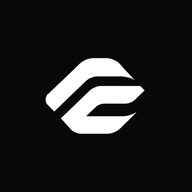
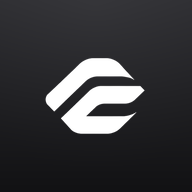
Apresentacao com telas reais e fundo preto; icones do app com degrade grafite e nome Ewvon
Claude-Session: https://claude.ai/code/session_01LEVXUKAxSR1y1Zz3Q6EDm6

diff --git a/public/ewvon-intro.js b/public/ewvon-intro.js
@@ -1,184 +1,94 @@
-/* Apresentação animada do ewvon: roda sozinha nos primeiros instantes da página inicial, mostra as funções
-   com jogo de luz e termina na frase de efeito. Pode ser pulada e só toca uma vez por sessão do navegador. */
+/* Apresentação de abertura do Ewvon: telas reais do sistema (modo de teste), logo real e nomes reais das áreas,
+   sobre fundo preto liso. Toca uma vez por sessão do navegador, pode ser pulada e termina na frase de efeito. */
 (function () {
   'use strict';
-  var KEY = 'ewvon-intro-v1';
+  var KEY = 'ewvon-intro-v2';
   var reduce = window.matchMedia && window.matchMedia('(prefers-reduced-motion: reduce)').matches;
-  var running = false;
+  var running = false, host = null;
 
   var CSS = '' +
-    '#evi{position:fixed;inset:0;z-index:9999;background:#05060b;color:#f5f6fa;font-family:"Plus Jakarta Sans",system-ui,-apple-system,"Segoe UI",sans-serif;overflow:hidden;opacity:1;transition:opacity .9s ease}' +
-    '#evi.out{opacity:0;pointer-events:none}' +
-    '#evi *{box-sizing:border-box}' +
-    '#evi .lt{position:absolute;border-radius:50%;filter:blur(70px);opacity:.55;will-change:transform}' +
-    '#evi .l1{width:46vmax;height:46vmax;left:-12vmax;top:-18vmax;background:radial-gradient(circle,#2f5bd8,transparent 65%);animation:evd1 9s ease-in-out infinite alternate}' +
-    '#evi .l2{width:42vmax;height:42vmax;right:-14vmax;bottom:-16vmax;background:radial-gradient(circle,#7a4bdb,transparent 65%);animation:evd2 11s ease-in-out infinite alternate}' +
-    '#evi .l3{width:26vmax;height:26vmax;left:38%;top:30%;background:radial-gradient(circle,#2bb3a3,transparent 65%);opacity:.28;animation:evd3 7s ease-in-out infinite alternate}' +
-    '@keyframes evd1{to{transform:translate(14vmax,10vmax) scale(1.15)}}@keyframes evd2{to{transform:translate(-12vmax,-8vmax) scale(1.1)}}@keyframes evd3{to{transform:translate(-14vmax,8vmax) scale(1.3)}}' +
-    '#evi .grid{position:absolute;inset:0;background-image:linear-gradient(rgba(255,255,255,.045) 1px,transparent 1px),linear-gradient(90deg,rgba(255,255,255,.045) 1px,transparent 1px);background-size:56px 56px;mask-image:radial-gradient(ellipse at center,#000 20%,transparent 75%);-webkit-mask-image:radial-gradient(ellipse at center,#000 20%,transparent 75%)}' +
-    '#evi .beam{position:absolute;top:-20%;bottom:-20%;width:22vmax;left:-30vmax;background:linear-gradient(100deg,transparent,rgba(255,255,255,.12),transparent);transform:skewX(-18deg);animation:evbm 5.2s linear infinite}' +
-    '@keyframes evbm{to{left:130vw}}' +
-    '#evi .sc{position:absolute;inset:0;display:flex;flex-direction:column;align-items:center;justify-content:center;gap:34px;padding:28px 24px 70px;opacity:0;visibility:hidden;transition:opacity .55s ease,transform .55s ease;transform:scale(.97)}' +
-    '#evi .sc.on{opacity:1;visibility:visible;transform:none}' +
-    '#evi .sc.gone{opacity:0;transform:scale(1.03)}' +
-    '#evi .tx{text-align:center;max-width:620px}' +
-    '#evi .kk{display:inline-block;font-size:12px;font-weight:800;letter-spacing:.16em;text-transform:uppercase;color:#9db4ff;border:1px solid rgba(157,180,255,.35);border-radius:999px;padding:6px 14px;margin-bottom:16px;background:rgba(47,91,216,.12)}' +
-    '#evi h2{margin:0 0 12px;font-size:clamp(30px,5.4vw,56px);line-height:1.08;font-weight:800;letter-spacing:-.025em;background:linear-gradient(100deg,#fff 30%,#a9bcff 48%,#fff 66%);background-size:250% 100%;-webkit-background-clip:text;background-clip:text;color:transparent;animation:evsh 2.6s ease-out both}' +
-    '@keyframes evsh{from{background-position:120% 0}to{background-position:-30% 0}}' +
-    '#evi .tx p{margin:0;font-size:clamp(15px,2vw,19px);color:#b8bdd0;line-height:1.55}' +
-    '#evi .sc.on .tx>*{animation:evup .7s cubic-bezier(.2,.7,.2,1) both}#evi .sc.on .tx>*:nth-child(2){animation-delay:.1s}#evi .sc.on .tx>*:nth-child(3){animation-delay:.2s}' +
-    '@keyframes evup{from{opacity:0;transform:translateY(18px)}to{opacity:1;transform:none}}' +
-    '#evi .vs{position:relative;width:min(560px,88vw);height:min(300px,34vh);display:flex;align-items:center;justify-content:center}' +
-    '#evi .sc.on .vs{animation:evpop .8s cubic-bezier(.2,.8,.2,1) .15s both}' +
-    '@keyframes evpop{from{opacity:0;transform:translateY(30px) scale(.94)}to{opacity:1;transform:none}}' +
-    '#evi .win{width:100%;height:100%;border-radius:20px;background:linear-gradient(160deg,rgba(255,255,255,.1),rgba(255,255,255,.04));border:1px solid rgba(255,255,255,.14);box-shadow:0 30px 80px rgba(0,0,0,.5),0 0 60px rgba(70,110,255,.18);backdrop-filter:blur(8px);padding:18px;position:relative;overflow:hidden}' +
-    '#evi .win:after{content:"";position:absolute;inset:0;background:linear-gradient(115deg,transparent 35%,rgba(255,255,255,.1) 50%,transparent 65%);transform:translateX(-120%);animation:evgl 2.4s ease-in-out .8s infinite}' +
-    '@keyframes evgl{to{transform:translateX(120%)}}' +
-    '#evi .dots{display:flex;gap:6px;margin-bottom:14px}#evi .dots i{width:9px;height:9px;border-radius:50%;background:rgba(255,255,255,.25)}' +
-    /* chat */
-    '#evi .chips{display:flex;gap:8px;flex-wrap:wrap;margin-bottom:12px}#evi .chip{font-size:12px;font-weight:700;padding:5px 11px;border-radius:999px;background:rgba(255,255,255,.1);color:#dfe4f5}#evi .chip.a{background:#2358c3;color:#fff}' +
-    '#evi .bub{max-width:72%;padding:10px 14px;border-radius:16px;font-size:14px;margin-bottom:9px;opacity:0;background:rgba(255,255,255,.12);color:#eef1fb}#evi .bub.r{margin-left:auto;background:#2358c3;color:#fff}' +
-    '#evi .sc.on .bub{animation:evup .6s ease var(--d,.6s) both}' +
-    '#evi .typ{display:inline-flex;gap:4px;margin-top:2px;opacity:0}#evi .sc.on .typ{animation:evup .4s ease 1.9s both}#evi .typ i{width:7px;height:7px;border-radius:50%;background:#9db4ff;animation:evbl 1s infinite}#evi .typ i:nth-child(2){animation-delay:.15s}#evi .typ i:nth-child(3){animation-delay:.3s}' +
-    '@keyframes evbl{50%{transform:translateY(-5px);opacity:.5}}' +
-    /* chamada */
-    '#evi .call{display:flex;align-items:center;justify-content:center;gap:34px;height:100%;flex-direction:column}#evi .av{display:flex;gap:26px}' +
-    '#evi .ap{position:relative;width:74px;height:74px;border-radius:50%;display:grid;place-items:center;font-weight:800;font-size:24px;color:#fff}' +
-    '#evi .ap:before,#evi .ap:after{content:"";position:absolute;inset:0;border-radius:50%;border:2px solid currentColor;opacity:0;animation:evrg 2.2s ease-out infinite}#evi .ap:after{animation-delay:1.1s}' +
-    '@keyframes evrg{from{transform:scale(1);opacity:.7}to{transform:scale(2);opacity:0}}' +
-    '#evi .pill{padding:8px 16px;border-radius:999px;background:rgba(18,160,114,.18);color:#62e0b0;font-weight:700;font-size:14px;display:flex;gap:8px;align-items:center}#evi .pill b{width:8px;height:8px;border-radius:50%;background:#33d69f;animation:evbl 1.2s infinite}' +
-    /* kanban */
-    '#evi .kb{display:grid;grid-template-columns:repeat(3,1fr);gap:12px;height:calc(100% - 22px)}#evi .col{background:rgba(255,255,255,.06);border-radius:12px;padding:10px;position:relative}' +
-    '#evi .col h6{margin:0 0 9px;font-size:11px;letter-spacing:.1em;text-transform:uppercase;color:#a6adc4}' +
-    '#evi .cd{height:34px;border-radius:9px;background:rgba(255,255,255,.14);margin-bottom:8px;position:relative}#evi .cd:before{content:"";position:absolute;left:10px;top:11px;width:55%;height:6px;border-radius:3px;background:rgba(255,255,255,.4)}' +
-    '#evi .cd.m{background:#2358c3;box-shadow:0 0 24px rgba(60,110,255,.6);z-index:2;animation:evmv 2.4s ease-in-out .5s infinite alternate}' +
-    '@keyframes evmv{0%{transform:translate(0,0)}45%{transform:translate(calc(100% + 12px),0)}100%{transform:translate(calc(200% + 24px),0)}}' +
-    /* calendário */
-    '#evi .cal{display:grid;grid-template-columns:repeat(5,1fr);gap:8px;height:calc(100% - 22px)}#evi .dy{background:rgba(255,255,255,.05);border-radius:10px;padding:8px;position:relative}#evi .dy h6{margin:0 0 8px;font-size:11px;color:#a6adc4;font-weight:700}' +
-    '#evi .ev{border-radius:8px;padding:6px 8px;font-size:11px;font-weight:700;margin-bottom:6px;color:#fff;opacity:0}#evi .sc.on .ev{animation:evup .5s ease both}' +
-    '#evi .ev.b{background:#2358c3}#evi .ev.v{background:#7a4bdb}#evi .ev.g{background:#12a072}#evi .ev.t{height:46px}' +
-    /* avisos */
-    '#evi .nt{display:flex;flex-direction:column;gap:10px}#evi .nc{display:flex;gap:12px;align-items:center;padding:12px 14px;border-radius:14px;background:rgba(255,255,255,.09);opacity:0;font-size:14px}#evi .sc.on .nc{animation:evup .6s ease both}#evi .nc:nth-child(2){animation-delay:.5s!important}#evi .nc:nth-child(3){animation-delay:.9s!important}' +
-    '#evi .ic{width:38px;height:38px;border-radius:11px;display:grid;place-items:center;flex:none;font-size:18px;font-weight:800}' +
-    '#evi .cf{position:absolute;width:7px;height:12px;border-radius:2px;opacity:0;animation:evcf 2.4s ease-out infinite}@keyframes evcf{0%{opacity:1;transform:translateY(0) rotate(0)}100%{opacity:0;transform:translateY(170px) rotate(360deg)}}' +
-    /* avaliações */
-    '#evi .doc{display:flex;gap:18px;height:100%}#evi .pg{flex:1;background:#fff;border-radius:10px;padding:14px;color:#1a1d29;position:relative}#evi .pg h6{margin:0 0 10px;font-size:12px;font-weight:800;letter-spacing:.04em}' +
-    '#evi .br{display:flex;align-items:center;gap:8px;margin-bottom:8px;font-size:10px;font-weight:700;color:#5c6378}#evi .br i{flex:1;height:8px;border-radius:4px;background:#e7e9f0;overflow:hidden;position:relative}#evi .br i:after{content:"";position:absolute;inset:0;width:0;background:#2358c3;border-radius:4px}' +
-    '#evi .sc.on .br i:after{animation:evbr 1.4s ease-out var(--d,0s) forwards}' +
-    '@keyframes evbr{to{width:var(--w,70%)}}' +
-    '#evi .qr{width:54px;height:54px;background:conic-gradient(#1a1d29 25%,#fff 0 50%,#1a1d29 0 75%,#fff 0) 0 0/14px 14px;border:3px solid #1a1d29;border-radius:4px;position:absolute;right:14px;bottom:14px}' +
-    '#evi .stp{position:absolute;right:16px;top:12px;border:2px solid #2358c3;color:#2358c3;font-size:11px;font-weight:800;padding:3px 8px;border-radius:6px;transform:rotate(8deg);opacity:0}#evi .sc.on .stp{animation:evst .5s ease 1.6s both}@keyframes evst{from{opacity:0;transform:rotate(8deg) scale(2)}to{opacity:1;transform:rotate(8deg) scale(1)}}' +
-    '#evi .sd{width:150px;display:flex;flex-direction:column;gap:10px;justify-content:center}#evi .sd div{padding:10px 12px;border-radius:12px;background:rgba(255,255,255,.1);font-size:12px;font-weight:700}' +
-    /* dash 3d */
-    '#evi .iso{position:relative;width:260px;height:260px;transform:rotateX(58deg) rotateZ(-40deg);transform-style:preserve-3d;animation:evfl 4s ease-in-out infinite alternate}' +
-    '@keyframes evfl{to{transform:rotateX(58deg) rotateZ(-30deg) translateZ(10px)}}' +
-    '#evi .fl{position:absolute;inset:0;border-radius:10px;border:2px solid rgba(255,255,255,.5);background:rgba(120,150,255,.16);box-shadow:0 0 40px rgba(80,120,255,.35)}' +
-    '#evi .fl.f1{transform:translateZ(0)}#evi .fl.f2{transform:translateZ(46px)}#evi .fl.f3{transform:translateZ(92px)}#evi .fl.f4{transform:translateZ(138px);background:rgba(160,120,255,.2)}' +
-    '#evi .sc.on .fl{animation:evfd 1.2s cubic-bezier(.2,.8,.2,1) both}#evi .sc.on .f2{animation-delay:.2s}#evi .sc.on .f3{animation-delay:.4s}#evi .sc.on .f4{animation-delay:.6s}' +
-    '@keyframes evfd{from{opacity:0;margin-top:-80px}to{opacity:1;margin-top:0}}' +
-    '#evi .fl b{position:absolute;width:14px;height:14px;border-radius:4px;background:#ffd166;box-shadow:0 0 12px #ffd166}' +
-    /* ia */
-    '#evi .orb{width:128px;height:128px;border-radius:50%;background:radial-gradient(circle at 35% 30%,#fff,#8fb0ff 30%,#6a4cff 60%,#1b1e5e);box-shadow:0 0 80px rgba(110,130,255,.8),0 0 160px rgba(120,80,255,.4);animation:evor 3s ease-in-out infinite alternate}' +
-    '@keyframes evor{to{transform:scale(1.12);box-shadow:0 0 110px rgba(110,130,255,.95),0 0 200px rgba(120,80,255,.55)}}' +
-    '#evi .orbit{position:absolute;inset:0;animation:evrt 12s linear infinite}@keyframes evrt{to{transform:rotate(360deg)}}' +
-    '#evi .orbit span{position:absolute;padding:7px 13px;border-radius:999px;background:rgba(255,255,255,.12);border:1px solid rgba(255,255,255,.2);font-size:12px;font-weight:700;white-space:nowrap;animation:evrt 12s linear infinite reverse}' +
-    /* app e seguranca */
-    '#evi .ph{width:118px;height:236px;border-radius:24px;border:3px solid rgba(255,255,255,.5);background:linear-gradient(170deg,rgba(255,255,255,.14),rgba(255,255,255,.04));position:relative;padding:12px 9px;box-shadow:0 0 50px rgba(80,120,255,.3)}' +
-    '#evi .ph i{display:block;height:26px;border-radius:8px;background:rgba(255,255,255,.16);margin-bottom:8px}#evi .ph i.n{background:#2358c3;opacity:0}#evi .sc.on .ph i.n{animation:evup .6s ease 1s both}' +
-    '#evi .sh{width:130px;height:150px;margin-left:46px;display:grid;place-items:center;background:linear-gradient(160deg,#2f5bd8,#7a4bdb);clip-path:polygon(50% 0,100% 16%,100% 58%,50% 100%,0 58%,0 16%);box-shadow:0 0 40px rgba(100,120,255,.6);font-size:54px;font-weight:800}' +
-    /* abertura e final */
-    '#evi .logo{font-size:clamp(54px,11vw,128px);font-weight:800;letter-spacing:-.04em;background:linear-gradient(100deg,#fff 30%,#9db4ff 50%,#fff 70%);background-size:250% 100%;-webkit-background-clip:text;background-clip:text;color:transparent}' +
-    '#evi .sc.on .logo{animation:evsh 2.4s ease-out both,evup .9s ease both}#evi .sub{color:#b8bdd0;font-size:clamp(15px,2vw,20px);margin-top:6px;opacity:0}#evi .sc.on .sub{animation:evup .8s ease .8s both}' +
-    '#evi .big{font-size:clamp(34px,8vw,92px);font-weight:800;letter-spacing:-.035em;line-height:1.05;text-align:center}' +
-    '#evi .big span{display:inline-block;opacity:0;background:linear-gradient(100deg,#fff 30%,#a9bcff 55%,#fff);-webkit-background-clip:text;background-clip:text;color:transparent;padding-bottom:.08em}' +
-    '#evi .sc.on .big span{animation:evwd .9s cubic-bezier(.2,.8,.2,1) both}#evi .sc.on .big span:nth-child(2){animation-delay:.55s}#evi .sc.on .big span:nth-child(3){animation-delay:1.1s}' +
-    '@keyframes evwd{from{opacity:0;transform:translateY(40px) scale(.9);filter:blur(10px)}to{opacity:1;transform:none;filter:none}}' +
-    '#evi .flare{position:absolute;left:50%;top:50%;width:140vmax;height:3px;margin-left:-70vmax;background:linear-gradient(90deg,transparent,#9db4ff,#fff,#9db4ff,transparent);opacity:0;filter:blur(1px);box-shadow:0 0 60px 20px rgba(120,150,255,.5)}' +
-    '#evi .sc.on .flare{animation:evfr 1.6s ease-out 1.6s both}@keyframes evfr{0%{opacity:0;transform:scaleX(0)}30%{opacity:1}100%{opacity:0;transform:scaleX(1)}}' +
-    /* controles */
-    '#evi .skip{position:absolute;top:18px;right:18px;z-index:5;background:rgba(255,255,255,.1);border:1px solid rgba(255,255,255,.22);color:#fff;border-radius:999px;padding:9px 18px;font:700 13px inherit;cursor:pointer}#evi .skip:hover{background:rgba(255,255,255,.2)}' +
-    '#evi .pr{position:absolute;left:0;right:0;bottom:0;height:4px;background:rgba(255,255,255,.1)}#evi .pr i{display:block;height:100%;width:0;background:linear-gradient(90deg,#2f5bd8,#a98bff);box-shadow:0 0 14px #6a8cff}' +
-    '#evi .cnt{position:absolute;bottom:16px;left:0;right:0;display:flex;justify-content:center;gap:7px;z-index:4}#evi .cnt i{width:7px;height:7px;border-radius:50%;background:rgba(255,255,255,.25);transition:.3s}#evi .cnt i.on{background:#fff;transform:scale(1.35)}' +
-    '@media (max-width:640px){#evi .sc{gap:22px}#evi .vs{height:min(280px,38vh)}#evi .sd{display:none}}' +
+    '#evi{position:fixed;inset:0;background:#000;color:#fff;font-family:"Plus Jakarta Sans",system-ui,-apple-system,"Segoe UI",sans-serif;overflow:hidden;opacity:1;transition:opacity .8s ease}' +
+    '#evi.out{opacity:0;pointer-events:none}#evi *{box-sizing:border-box}' +
+    '#evi .sc{position:absolute;inset:0;display:flex;flex-direction:column;align-items:center;justify-content:center;gap:26px;padding:56px 24px 64px;opacity:0;visibility:hidden;transition:opacity .6s ease}' +
+    '#evi .sc.on{opacity:1;visibility:visible}' +
+    '#evi .shot{position:relative;width:min(1080px,92vw);max-height:62vh;aspect-ratio:1440/900;border-radius:16px;overflow:hidden;border:1px solid #2a2a2e;background:#fff;box-shadow:0 24px 70px rgba(0,0,0,.8)}' +
+    '#evi .shot img{display:block;width:100%;height:100%;object-fit:cover;object-position:top;transform-origin:50% 30%}' +
+    '#evi .sc.on .shot img{animation:evzm 4.6s ease-out both}@keyframes evzm{from{transform:scale(1)}to{transform:scale(1.045)}}' +
+    '#evi .sc.on .shot{animation:evin .8s cubic-bezier(.2,.8,.2,1) both}@keyframes evin{from{opacity:0;transform:translateY(26px)}to{opacity:1;transform:none}}' +
+    '#evi .cap{text-align:center;max-width:720px}' +
+    '#evi .cap h2{margin:0 0 8px;font-size:clamp(26px,4.4vw,46px);font-weight:800;letter-spacing:-.025em;line-height:1.1}' +
+    '#evi .cap p{margin:0;font-size:clamp(14px,1.8vw,18px);color:#a8a8b0;line-height:1.5}' +
+    '#evi .sc.on .cap>*{animation:evup .7s cubic-bezier(.2,.7,.2,1) .25s both}#evi .sc.on .cap>*+*{animation-delay:.4s}' +
+    '@keyframes evup{from{opacity:0;transform:translateY(16px)}to{opacity:1;transform:none}}' +
+    '#evi .wm{width:min(420px,70vw);height:auto;display:block;margin:0 auto}' +
+    '#evi .sc.on .wm{animation:evup .9s ease both}' +
+    '#evi .tag{margin-top:10px;font-size:clamp(15px,2vw,20px);color:#a8a8b0}#evi .sc.on .tag{animation:evup .8s ease .7s both}' +
+    '#evi .big{font-size:clamp(34px,8vw,92px);font-weight:800;letter-spacing:-.035em;line-height:1.06;text-align:center}' +
+    '#evi .big span{display:inline-block;opacity:0}#evi .sc.on .big span{animation:evup .8s cubic-bezier(.2,.8,.2,1) both}#evi .sc.on .big span:nth-child(2){animation-delay:.5s}#evi .sc.on .big span:nth-child(3){animation-delay:1s}' +
+    '#evi .skip{position:absolute;top:18px;right:18px;z-index:5;background:#111;border:1px solid #333;color:#fff;border-radius:999px;padding:9px 18px;font:700 13px inherit;cursor:pointer}#evi .skip:hover{background:#222}' +
+    '#evi .pr{position:absolute;left:0;right:0;bottom:0;height:3px;background:#141414}#evi .pr i{display:block;height:100%;width:0;background:#fff}' +
+    '#evi .cnt{position:absolute;bottom:18px;left:0;right:0;display:flex;justify-content:center;gap:7px;z-index:4}#evi .cnt i{width:6px;height:6px;border-radius:50%;background:#333;transition:.3s}#evi .cnt i.on{background:#fff}' +
+    '@media (max-width:640px){#evi .shot{max-height:46vh;aspect-ratio:4/3}#evi .shot img{object-position:left top}}' +
     '@media (prefers-reduced-motion:reduce){#evi *{animation-duration:.01s!important}}';
 
-  var P = ['#2358c3', '#7a4bdb', '#12a072', '#e0803a'];
-  function av(l, c, d) { return '<div class="ap" style="background:' + c + ';color:' + c + ';animation-delay:' + d + 's"><span style="color:#fff;position:relative;z-index:1">' + l + '</span></div>'; }
-  function cards(n, m) { var s = ''; for (var i = 0; i < n; i++) s += '<div class="cd' + (m && i === 0 ? ' m' : '') + '"></div>'; return s; }
-  function conf() { var s = '', c = ['#ffd166', '#6ea0ff', '#ff7aa8', '#62e0b0']; for (var i = 0; i < 14; i++) s += '<i class="cf" style="left:' + (6 + i * 7) + '%;top:' + (-6 - (i % 3) * 8) + 'px;background:' + c[i % 4] + ';animation-delay:' + (i * .17) + 's"></i>'; return s; }
-  function floorDots(n, seed) { var s = ''; for (var i = 0; i < n; i++) s += '<b style="left:' + (12 + ((i * 37 + seed * 11) % 70)) + '%;top:' + (14 + ((i * 53 + seed * 23) % 68)) + '%;' + (i % 3 ? 'background:#6ea0ff;box-shadow:0 0 10px #6ea0ff' : '') + '"></b>'; return s; }
-
+  var D = '/intro/';
   var SC = [
-    { t: 'open', d: 2800, html: '<div class="logo">ewvon</div><div class="sub">Tudo que sua equipe precisa, em um só lugar.</div>' },
-    { d: 2700, k: 'Chat por setores', h: 'Cada setor com a sua conversa', p: 'Canais por setor, conversas diretas e grupos, com arquivos, áudios e figurinhas.',
-      v: '<div class="win"><div class="dots"><i></i><i></i><i></i></div><div class="chips"><span class="chip a"># Geral</span><span class="chip"># Vendas</span><span class="chip"># Suporte</span></div><div class="bub" style="--d:.6s">Bom dia, pessoal! A reunião é às 14h.</div><div class="bub r" style="--d:1.1s">Perfeito, já vou preparar o relatório.</div><div class="bub" style="--d:1.6s">Anexei a planilha no canal.</div><span class="typ"><i></i><i></i><i></i></span></div>' },
-    { d: 2600, k: 'Chamadas de voz e vídeo', h: 'Fale com a equipe sem sair do ewvon', p: 'Chamadas dentro da plataforma, com histórico de perdidas e duração.',
-      v: '<div class="win"><div class="call"><div class="av">' + av('A', P[0], 0) + av('C', P[1], .4) + av('M', P[2], .8) + '</div><div class="pill"><b></b>Chamada em andamento · 02:14</div></div></div>' },
-    { d: 2700, k: 'Tarefas e quadros', h: 'Organize o trabalho em quadros Kanban', p: 'Responsáveis, prazos e prioridades. Todo mundo vê o andamento em tempo real.',
-      v: '<div class="win"><div class="dots"><i></i><i></i><i></i></div><div class="kb"><div class="col"><h6>A fazer</h6>' + cards(3, 1) + '</div><div class="col"><h6>Em andamento</h6>' + cards(2) + '</div><div class="col"><h6>Concluído</h6>' + cards(1) + '</div></div></div>' },
-    { d: 2600, k: 'Calendário e salas', h: 'Agenda e reuniões sem conflito', p: 'Reserve salas, veja horários livres e acompanhe os compromissos do time.',
-      v: '<div class="win"><div class="dots"><i></i><i></i><i></i></div><div class="cal">' +
-        ['Seg', 'Ter', 'Qua', 'Qui', 'Sex'].map(function (d, i) { return '<div class="dy"><h6>' + d + '</h6>' + (i % 2 ? '<div class="ev v" style="animation-delay:' + (.5 + i * .2) + 's">Alinhamento</div>' : '<div class="ev b t" style="animation-delay:' + (.5 + i * .2) + 's">Sala 1 · 14h</div>') + (i === 2 ? '<div class="ev g" style="animation-delay:1.4s">Entrevista</div>' : '') + '</div>'; }).join('') + '</div></div>' },
-    { d: 2600, k: 'Avisos e aniversariantes', h: 'Ninguém perde o que importa', p: 'Avisos oficiais fixados para todos e os aniversariantes sempre em destaque.',
-      v: '<div class="win">' + conf() + '<div class="nt"><div class="nc"><span class="ic" style="background:#2358c3">!</span><span><b>Aviso fixado</b><br>Novo horário de atendimento a partir de segunda.</span></div><div class="nc"><span class="ic" style="background:#7a4bdb">★</span><span><b>Aniversariantes de hoje</b><br>Ana (Financeiro) e Carlos (TI)</span></div><div class="nc"><span class="ic" style="background:#12a072">✓</span><span><b>Meta do mês batida</b><br>Parabéns, equipe!</span></div></div></div>' },
-    { d: 2700, k: 'Avaliações', h: 'Avaliações de experiência e desempenho', p: 'Formulários de 45 e 90 dias em PDF, com avisos automáticos aos gestores.',
-      v: '<div class="win"><div class="doc"><div class="pg"><span class="stp">45 DIAS</span><h6>AVALIAÇÃO DE EXPERIÊNCIA</h6><div class="br" style="--w:80%;--d:0.2s">Comunicação<i></i></div><div class="br" style="--w:68%;--d:0.45s">Responsabilidade<i></i></div><div class="br" style="--w:92%;--d:0.7s">Trabalho em equipe<i></i></div><div class="br" style="--w:54%;--d:0.95s">Iniciativa<i></i></div><span class="qr"></span></div><div class="sd"><div>Aviso 10 dias antes do fim</div><div>Documento validável por QR</div></div></div></div>' },
-    { d: 2900, k: 'Dash 3D', h: 'O seu escritório em 3D, ao vivo', p: 'Veja cada andar, as pessoas, as salas de reunião e os indicadores no telão.',
-      v: '<div class="iso"><div class="fl f1">' + floorDots(7, 1) + '</div><div class="fl f2">' + floorDots(6, 2) + '</div><div class="fl f3">' + floorDots(8, 3) + '</div><div class="fl f4">' + floorDots(5, 4) + '</div></div>' },
-    { d: 2700, k: 'Assistente e integrações', h: 'Inteligência e conexões', p: 'Assistente de IA no chat e integrações com as ferramentas que você já usa.',
-      v: '<div style="position:relative;width:300px;height:300px;display:grid;place-items:center"><div class="orb"></div><div class="orbit"><span style="left:50%;top:-4px;margin-left:-34px">Agenda</span><span style="right:-18px;top:46%">Arquivos</span><span style="left:50%;bottom:-4px;margin-left:-40px">Mensagens</span><span style="left:-22px;top:46%">RH</span></div></div>' },
-    { d: 2700, k: 'Aplicativo e segurança', h: 'No celular e protegido', p: 'Aplicativo Android com notificações, dados criptografados e recursos de LGPD.',
-      v: '<div style="display:flex;align-items:center"><div class="ph"><i></i><i></i><i class="n"></i><i></i><i></i></div><div class="sh">✓</div></div>' },
-    { t: 'end', d: 4600, html: '<div class="flare"></div><div class="big"><span>Conversa.</span> <span>Tarefas.</span> <span>Reuniões.</span></div><div class="sub" style="animation-delay:2.2s">Conheça o ewvon.</div>' }
+    { d: 2800, html: '<img class="wm" src="/ewwon/img/wordmark.png" alt="Ewvon"><div class="tag">Converse. Organize. Conclua.</div>' },
+    { d: 3000, img: 'inicio', h: 'Início', p: 'Seu espaço de trabalho: mensagens, tarefas e avisos do dia em um só lugar.' },
+    { d: 3200, img: 'chat', h: 'Conversas', p: 'Setores, conversas individuais e grupos, com chamadas de voz e vídeo.' },
+    { d: 3200, img: 'tarefas', h: 'Tarefas em quadros', p: 'Quadros com colunas, responsáveis, prazos e acompanhamento da equipe.' },
+    { d: 2800, img: 'avisos', h: 'Avisos', p: 'Comunicados da empresa para toda a equipe, com avisos fixados.' },
+    { d: 3000, img: 'calendario', h: 'Calendário e salas', p: 'Reuniões, lembretes e prazos organizados, sem conflito de horário.' },
+    { d: 2800, img: 'aniversariantes', h: 'Aniversariantes', p: 'Felicitações do mês e relatório pronto para baixar em PDF.' },
+    { d: 3400, img: 'dash', h: 'Dashboard 3D', p: 'Seu escritório em 3D, com a equipe, as salas e os indicadores ao vivo.' },
+    { d: 4400, html: '<div class="big"><span>Conversa.</span> <span>Tarefas.</span> <span>Reuniões.</span></div><img class="wm" style="width:min(220px,50vw);margin-top:26px" src="/ewwon/img/wordmark.png" alt="Ewvon">' }
   ];
 
-  var host = null;
   function build() {
-    /* Shadow DOM: o estilo da apresentação não mistura com o da página (e vice-versa) */
     host = document.createElement('div'); host.id = 'evi-host'; host.style.cssText = 'position:fixed;inset:0;z-index:99999';
-    var sr = host.attachShadow({ mode: 'open' });
-    var st = document.createElement('style'); st.textContent = CSS + '#evi .vs{flex:none}'; sr.appendChild(st);
-    var el = document.createElement('div'); el.id = 'evi'; el.setAttribute('role', 'region'); el.setAttribute('aria-label', 'Apresentação do ewvon');
-    var h = '<div class="lt l1"></div><div class="lt l2"></div><div class="lt l3"></div><div class="grid"></div><div class="beam"></div><button class="skip" type="button">Pular apresentação</button>';
+    var sr = host.attachShadow({ mode: 'open' }), st = document.createElement('style'); st.textContent = CSS; sr.appendChild(st);
+    var el = document.createElement('div'); el.id = 'evi'; el.setAttribute('role', 'region'); el.setAttribute('aria-label', 'Apresentação do Ewvon');
+    var h = '<button class="skip" type="button">Pular apresentação</button>';
     SC.forEach(function (s) {
-      if (s.html) h += '<div class="sc"><div style="text-align:center;position:relative">' + s.html + '</div></div>';
-      else h += '<div class="sc"><div class="vs">' + s.v + '</div><div class="tx"><span class="kk">' + s.k + '</span><h2>' + s.h + '</h2><p>' + s.p + '</p></div></div>';
+      if (s.html) h += '<div class="sc"><div style="text-align:center">' + s.html + '</div></div>';
+      else h += '<div class="sc"><div class="shot"><img src="' + D + s.img + '.webp" alt="' + s.h + '"></div><div class="cap"><h2>' + s.h + '</h2><p>' + s.p + '</p></div></div>';
     });
     h += '<div class="cnt">' + SC.map(function () { return '<i></i>'; }).join('') + '</div><div class="pr"><i></i></div>';
     el.innerHTML = h; sr.appendChild(el); document.body.appendChild(host); return el;
   }
 
-  function play(force) {
+  function play() {
     if (running) return; running = true;
     var el = build(), sc = el.querySelectorAll('.sc'), dots = el.querySelectorAll('.cnt i'), bar = el.querySelector('.pr i');
     var total = SC.reduce(function (a, s) { return a + s.d; }, 0), t0 = Date.now(), timers = [], i = -1, done = false;
     document.documentElement.style.overflow = 'hidden';
     function show(n) {
-      if (i >= 0) { sc[i].classList.remove('on'); sc[i].classList.add('gone'); (function (k) { setTimeout(function () { sc[k].classList.remove('gone'); }, 600); })(i); }
+      if (i >= 0) sc[i].classList.remove('on');
       i = n; sc[i].classList.add('on');
       dots.forEach(function (d, k) { d.classList.toggle('on', k === i); });
-      if (i < SC.length - 1) timers.push(setTimeout(function () { show(i + 1); }, SC[i].d));
-      else timers.push(setTimeout(finish, SC[i].d));
+      timers.push(setTimeout(function () { if (i < SC.length - 1) show(i + 1); else finish(); }, SC[i].d));
     }
     function tick() { if (done) return; bar.style.width = Math.min(100, (Date.now() - t0) / total * 100) + '%'; requestAnimationFrame(tick); }
     function finish() {
       if (done) return; done = true; timers.forEach(clearTimeout);
       try { sessionStorage.setItem(KEY, '1'); } catch (e) { }
       el.classList.add('out');
-      setTimeout(function () { host.remove(); document.documentElement.style.overflow = ''; running = false; }, 1000);
+      setTimeout(function () { host.remove(); document.documentElement.style.overflow = ''; running = false; }, 900);
     }
     el.querySelector('.skip').addEventListener('click', finish);
     document.addEventListener('keydown', function esc(e) { if (e.key === 'Escape' && !done) { finish(); document.removeEventListener('keydown', esc); } });
     show(0); tick();
   }
 
-  window.ewvonIntro = function () { play(true); };
+  window.ewvonIntro = function () { play(); };
 
   function start() {
     var seen = false; try { seen = sessionStorage.getItem(KEY) === '1'; } catch (e) { }
     if (reduce || seen) return;
-    var go = function () { play(false); };
-    if (document.fonts && document.fonts.ready) Promise.race([document.fonts.ready, new Promise(function (r) { setTimeout(r, 800); })]).then(go); else go();
+    /* carrega as primeiras imagens antes de começar para a abertura não piscar */
+    var n = 0, started = false, go = function () { if (!started && ++n >= 3) { started = true; play(); } };
+    ['/ewwon/img/wordmark.png', D + 'inicio.webp', D + 'chat.webp'].forEach(function (u) { var im = new Image(); im.onload = im.onerror = go; im.src = u; });
+    setTimeout(function () { if (!started) { started = true; play(); } }, 2500);
   }
   if (document.readyState === 'loading') document.addEventListener('DOMContentLoaded', start); else start();
 })();

diff --git a/public/sw.js b/public/sw.js
@@ -149,7 +149,7 @@ self.addEventListener('push', (event) => {
     const count = (prev && prev.data && prev.data.count ? prev.data.count : 0) + 1;
     const lines = [...((prev && prev.data && prev.data.lines) || []), d.body || ''].slice(-6);
     const isNotice = d.kind === 'notice' || d.kind === 'birthday';
-    const title = isNotice ? (d.title || 'Novo aviso') : count > 1 ? `${d.title} · ${count} mensagens` : (d.title || 'ewvon');
+    const title = isNotice ? (d.title || 'Novo aviso') : count > 1 ? `${d.title} · ${count} mensagens` : (d.title || 'Ewvon');
     await self.registration.showNotification(title, {
       body: isNotice ? `${d.body || ''}${d.company ? `\n${d.company} · Avisos` : ''}` : count > 1 ? lines.join('\n') : (d.body || 'Nova mensagem'),
       icon: d.icon || '/icons/notify-person.png?v=3',

diff --git a/index.html b/index.html
@@ -16,8 +16,8 @@
     <meta name="mobile-web-app-capable" content="yes" />
     <meta name="apple-mobile-web-app-capable" content="yes" />
     <meta name="apple-mobile-web-app-status-bar-style" content="black-translucent" />
-    <meta name="apple-mobile-web-app-title" content="ewvon" />
-    <meta name="application-name" content="ewvon" />
+    <meta name="apple-mobile-web-app-title" content="Ewvon" />
+    <meta name="application-name" content="Ewvon" />
     <meta name="msapplication-TileColor" content="#08080a" />
     <meta name="msapplication-tap-highlight" content="no" />
     <meta name="format-detection" content="telephone=no" />

diff --git a/AGENTS.md b/AGENTS.md
@@ -31,4 +31,5 @@
 - Dash 3D is one persistent scene: `STACK` holds a low-detail copy of EVERY floor (built once, rebuilt only when `stackSig()` changes or, per floor, when `liveSig()` changes via `liveStack`), floor switches only move the camera and swap which floor is the full-detail `FLR` (floors above lift or drop strictly vertically); low floors use the real person/chair/desk models baked with vertex colours (`mergeGeos` keeps the `color` attribute); the city (`SURR`) is reused and just shifted; low floors show the same live telão texture (`screenTex`) and their own floor sign.
 - SEO pages: static, crawlable HTML under public/<slug>/index.html (gestao-de-tarefas, chat-corporativo, avaliacao-de-desempenho, gestao-administrativa; canonical https://ewvon.com, JSON-LD FAQ/breadcrumb, listed in sitemap.xml and linked from the landing footer and index.html noscript) because the landing runs inside an iframe; public/sw.js treats these paths as standalone pages so they never overwrite the cached app shell; marketing copy never names other companies.
 - Dash 3D polish (public/dash/painel.html): accent is the system blue (`ACC`/`--accent` #2358C3; orange stays only on furniture/people); telão data and period are two dropdowns in the Informações panel (`data-metricsel`, `data-winsel`); building exteriors are plain white (`wallFaces`/`extWall`, `facadeDeco` windows and friezes on back/left/right outer faces); changing floors keeps the user's zoom/angle (`focusKeepCam`), floors leaving/entering fade while moving strictly vertically (`fadeKit` clones materials only during the transition), and realtime `ewvon:dash-data` messages are deferred while `FTR` runs (`EWV_DEFER`) so nothing rebuilds mid-animation; telão charts use halo text (`TH`), dynamic axis width and a média badge outside the plot.
-- Landing intro (public/ewvon-intro.js, loaded by public/ewvon-landing.html): a ~28s animated presentation in a Shadow DOM overlay (feature scenes with light effects, ending on "Conversa. Tarefas. Reuniões."), plays once per browser session (sessionStorage `ewvon-intro-v1`), skippable (button/Esc), disabled for reduced motion, replayable with the hero "Ver apresentação" button (`window.ewvonIntro()`); marketing copy never names other companies. Dash 3D has no skeleton/ceiling above the active floor: the render loop forces upper floors hidden and the active floor un-shifted whenever no floor change is running.
+- Landing intro (public/ewvon-intro.js, loaded by public/ewvon-landing.html): ~28s presentation on a plain black background in a Shadow DOM overlay, using REAL screenshots of the system in test mode (public/intro/*.webp, captured from the demo session with seeded data), the real wordmark (public/ewwon/img/wordmark.png) and the real area names (Início, Conversas, Tarefas em quadros, Avisos, Calendário e salas, Aniversariantes, Dashboard 3D), ending on "Conversa. Tarefas. Reuniões."; no artificial light effects; plays once per session (`ewvon-intro-v2`), skippable, off for reduced motion, replay via `window.ewvonIntro()`. Marketing copy never names other companies.
+- App icons (PWA, apple-touch, favicon, Android mipmaps) use a charcoal vertical gradient (#2e2e32 to #121214) behind the white mark, never flat black; the installed name is written "Ewvon" (manifest, Android app_name, apple title). A new APK build is needed for the Android launcher icon/label to change on installed devices.
